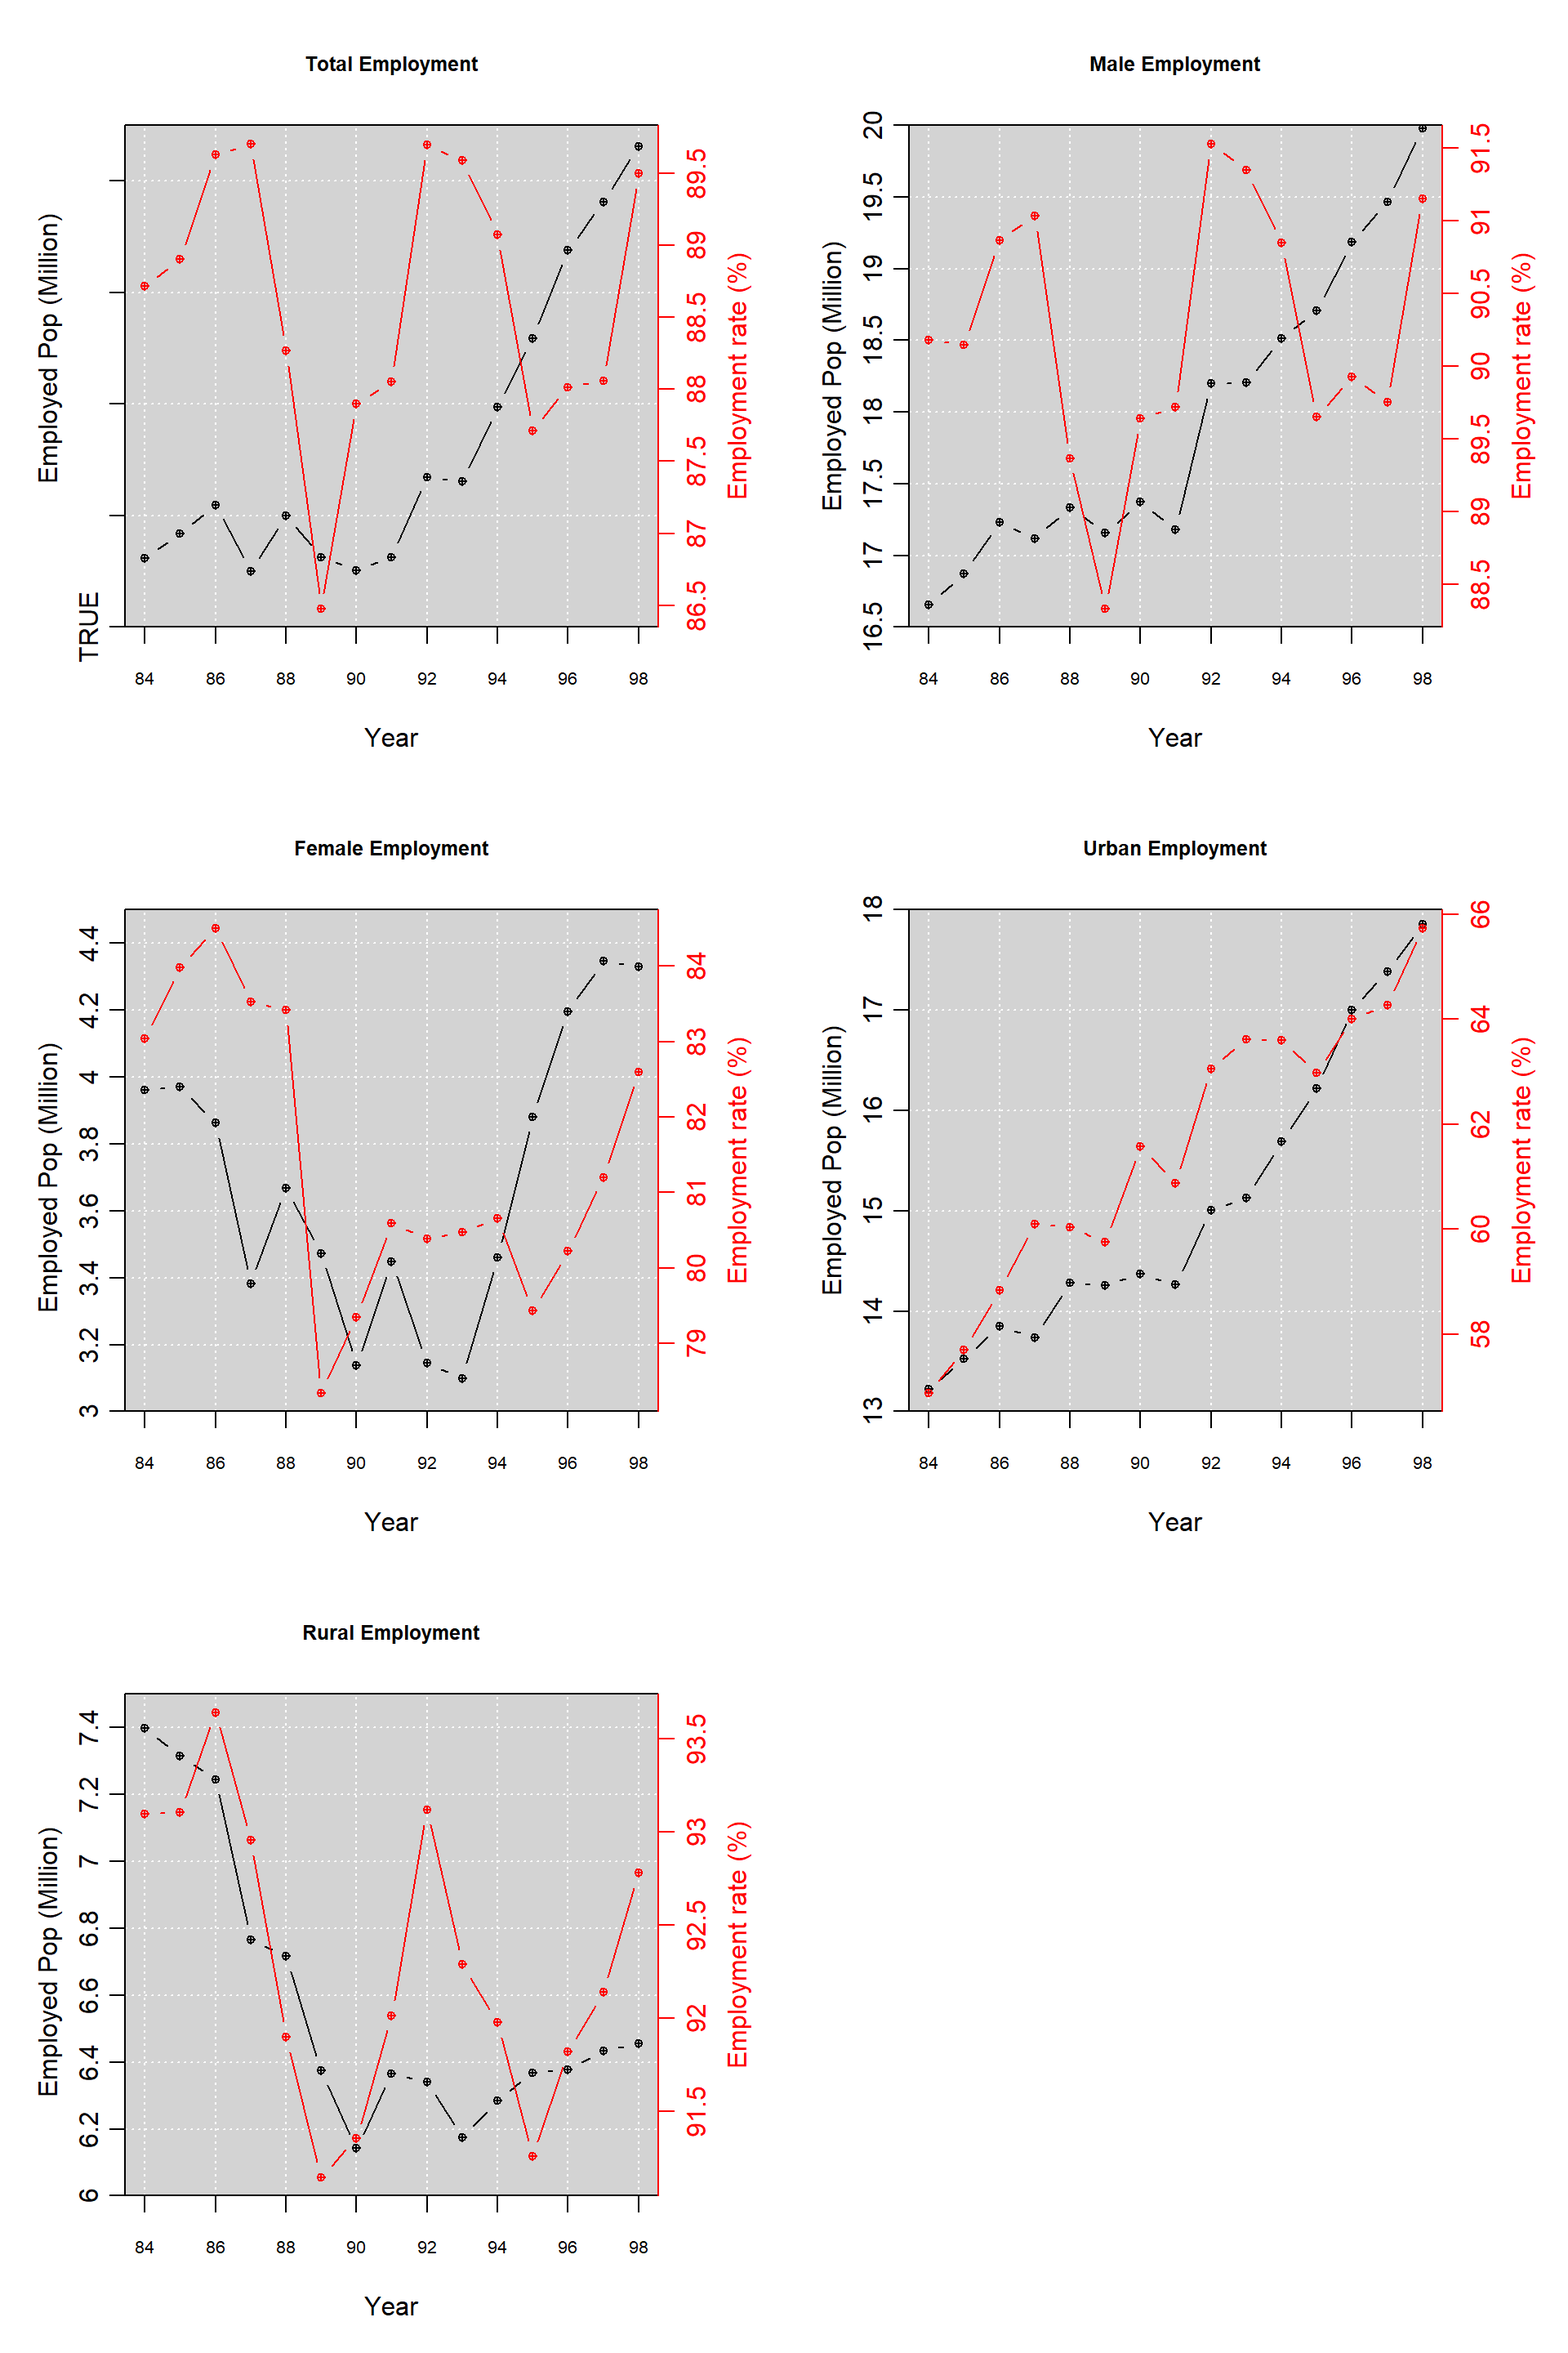
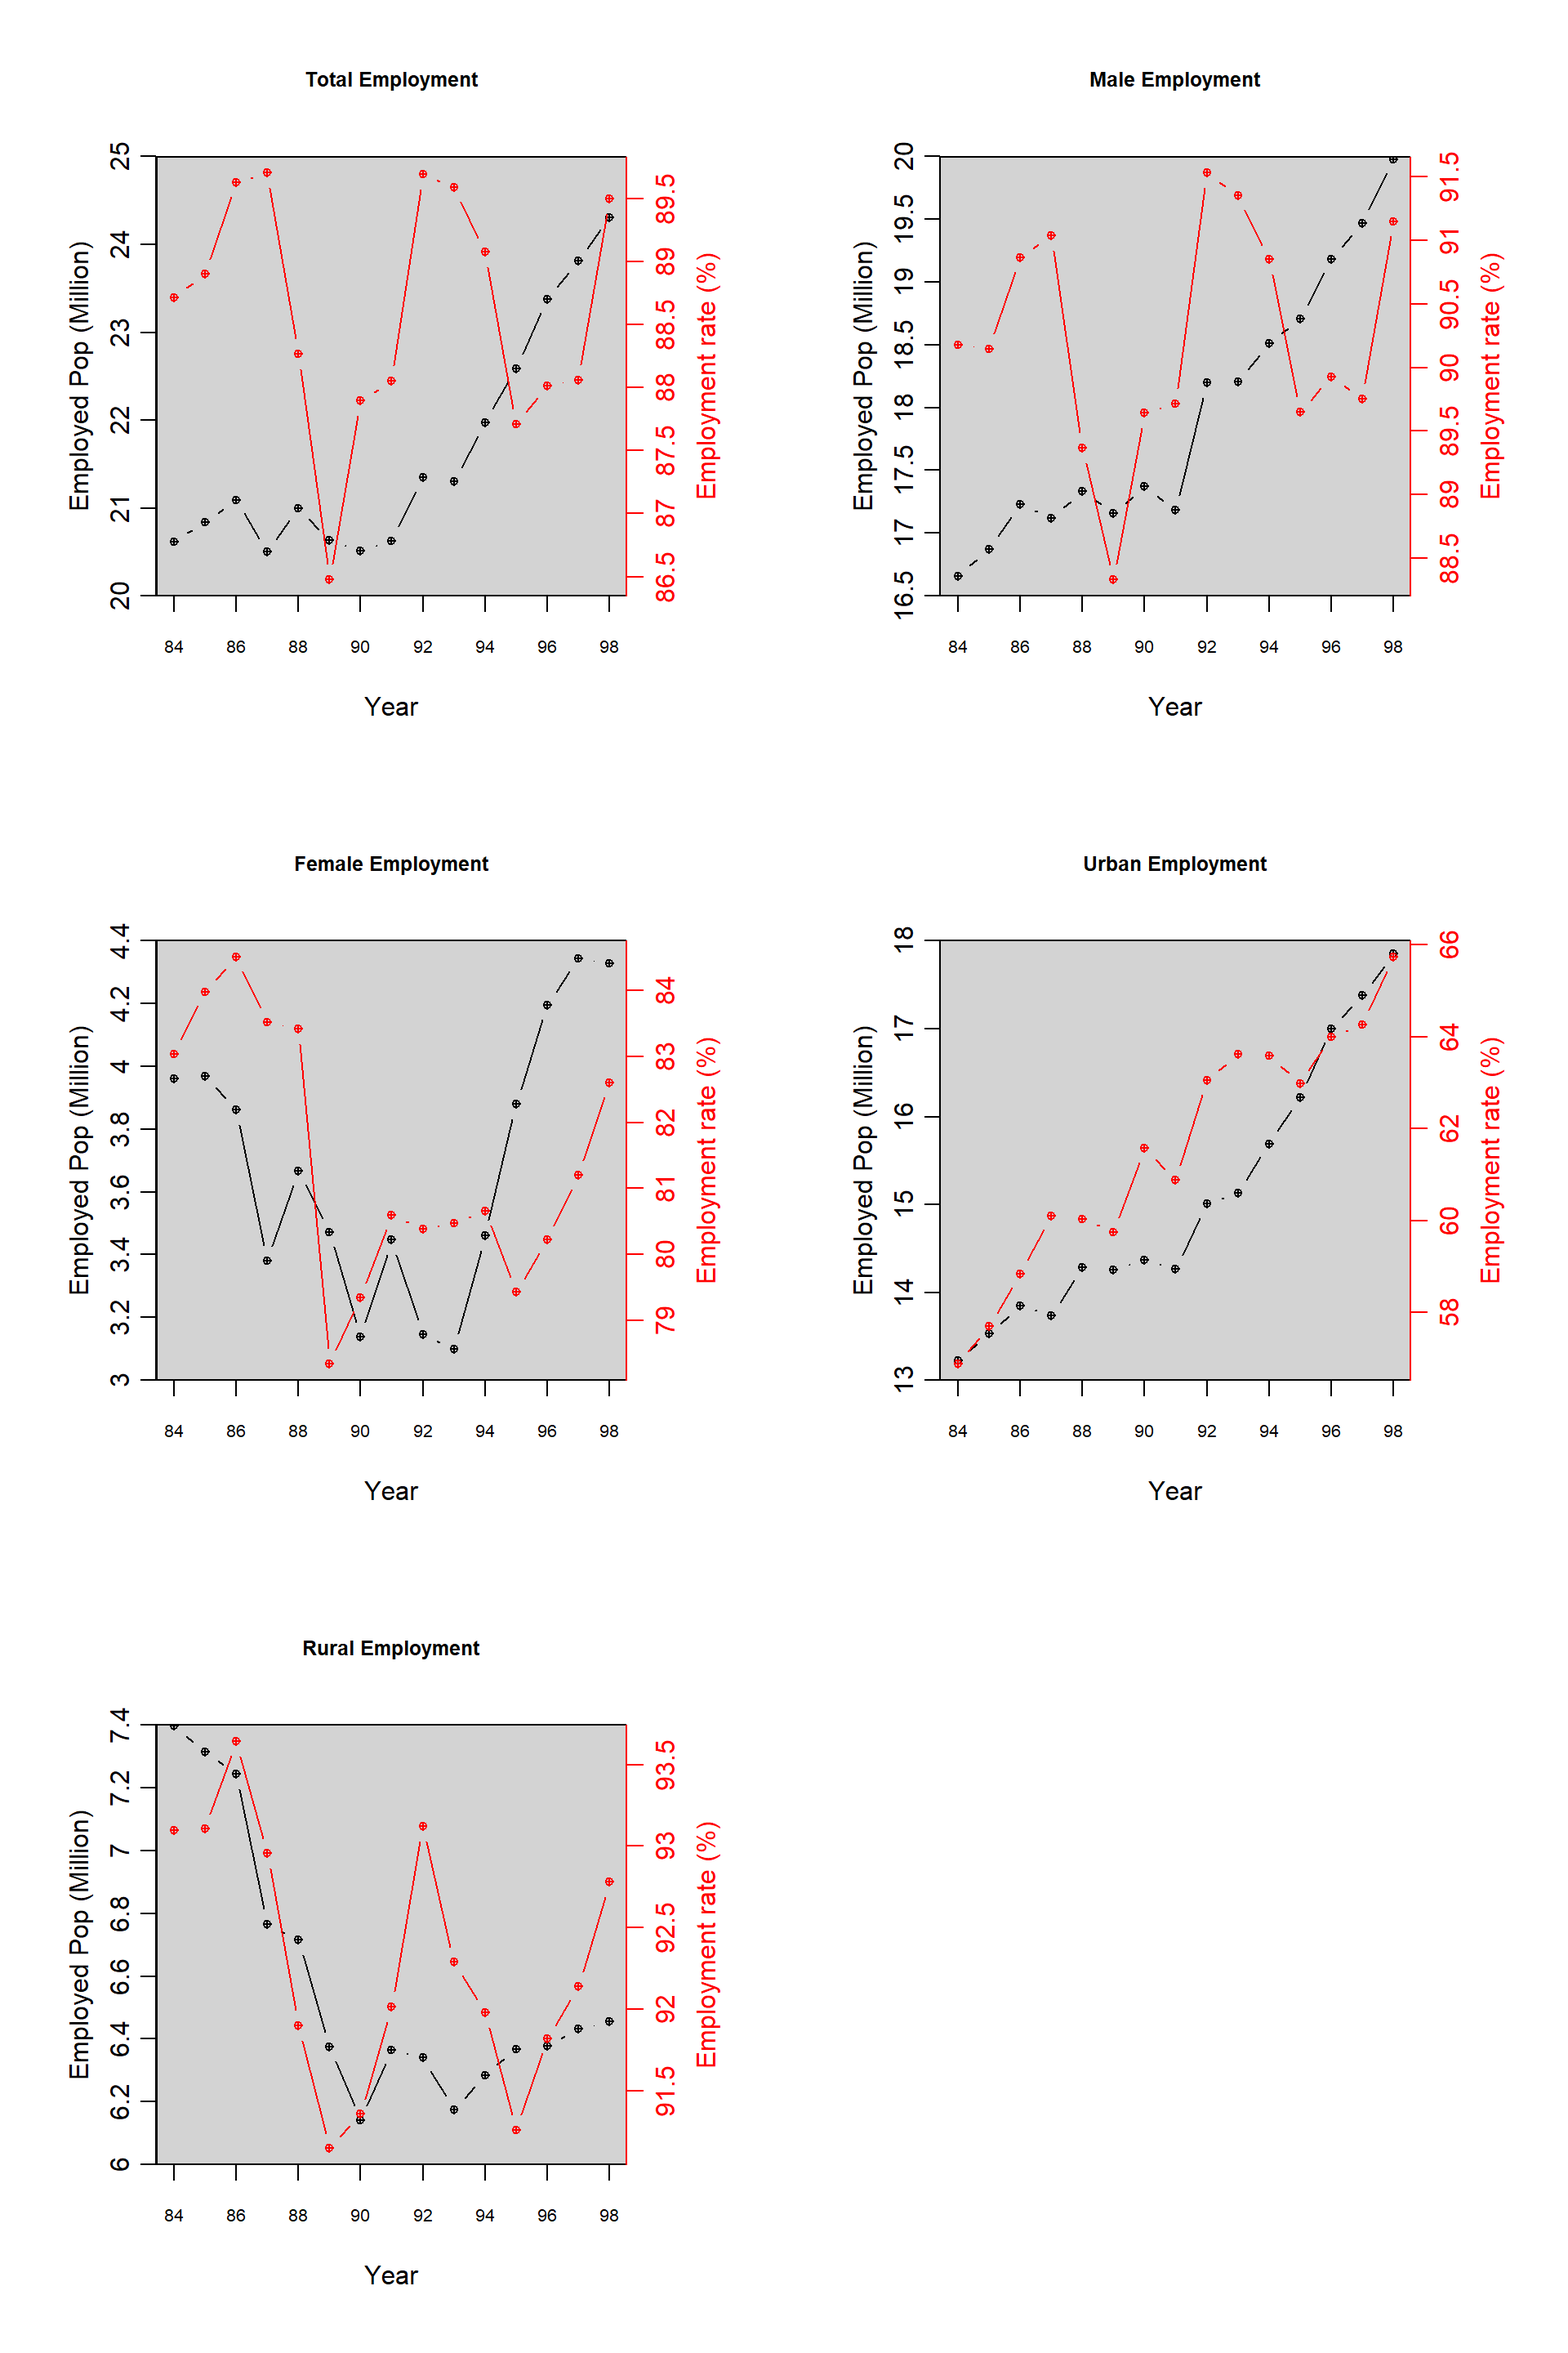
commit result (htmls and figs)

diff --git a/docs/descriptive-evidence.html b/docs/descriptive-evidence.html
@@ -240,10 +240,10 @@ code span.wa { color: #60a0b0; font-weight: bold; font-style: italic; } /* Warni
 <span id="cb1-15"><a href="descriptive-evidence.html#cb1-15" aria-hidden="true" tabindex="-1"></a>  <span class="fu">mutate_at</span>(<span class="fu">vars</span>(EMPR_T<span class="sc">:</span>UMPR_R),<span class="st">`</span><span class="at">*</span><span class="st">`</span>,<span class="dv">100</span>)</span>
 <span id="cb1-16"><a href="descriptive-evidence.html#cb1-16" aria-hidden="true" tabindex="-1"></a></span>
 <span id="cb1-17"><a href="descriptive-evidence.html#cb1-17" aria-hidden="true" tabindex="-1"></a>LFSINP2 <span class="ot">&lt;-</span> <span class="cf">function</span>(df,<span class="at">x =</span> <span class="st">&quot;&quot;</span>,<span class="at">y1 =</span> <span class="st">&quot;&quot;</span>, <span class="at">y2 =</span> <span class="st">&quot;&quot;</span>, <span class="at">Main =</span> <span class="st">&quot;&quot;</span>,<span class="at">y1l =</span> <span class="st">&quot;&quot;</span> ,<span class="at">y2l =</span> <span class="st">&quot;&quot;</span>,<span class="at">y1lim =</span><span class="cn">NULL</span> ){</span>
-<span id="cb1-18"><a href="descriptive-evidence.html#cb1-18" aria-hidden="true" tabindex="-1"></a>  P <span class="ot">&lt;-</span> <span class="fu">twoord.plot</span>(<span class="at">lx =</span> x, <span class="at">ly =</span>y1 , <span class="at">rx =</span> x , <span class="at">ry =</span>y2, <span class="at">data =</span> df,<span class="at">lylim =</span> y1lim,<span class="at">mar =</span> <span class="fu">c</span>(<span class="dv">5</span>,<span class="dv">4</span>,<span class="dv">4</span>,<span class="dv">4</span>),</span>
+<span id="cb1-18"><a href="descriptive-evidence.html#cb1-18" aria-hidden="true" tabindex="-1"></a>  P <span class="ot">&lt;-</span> <span class="fu">twoord.plot</span>(<span class="at">lx =</span> x, <span class="at">ly =</span>y1 , <span class="at">rx =</span> x , <span class="at">ry =</span>y2, <span class="at">data =</span> df,<span class="at">lylim =</span> y1lim,<span class="at">mar =</span> <span class="fu">c</span>(<span class="dv">6</span>,<span class="dv">5</span>,<span class="dv">5</span>,<span class="dv">5</span>),</span>
 <span id="cb1-19"><a href="descriptive-evidence.html#cb1-19" aria-hidden="true" tabindex="-1"></a>                   <span class="at">main =</span> Main , <span class="at">ylab =</span>y1l, <span class="at">rylab =</span> y2l , <span class="at">lpch =</span> <span class="dv">10</span>,<span class="at">rpch =</span> <span class="dv">10</span>,</span>
 <span id="cb1-20"><a href="descriptive-evidence.html#cb1-20" aria-hidden="true" tabindex="-1"></a>                   <span class="at">lcol =</span> <span class="st">&quot;black&quot;</span> ,<span class="at">rcol =</span> <span class="st">&quot;red&quot;</span>,<span class="at">xlab =</span> <span class="st">&quot;Year&quot;</span>,</span>
-<span id="cb1-21"><a href="descriptive-evidence.html#cb1-21" aria-hidden="true" tabindex="-1"></a>                   <span class="at">do.first=</span><span class="st">&quot;plot_bg();grid(col=</span><span class="sc">\&quot;</span><span class="st">white</span><span class="sc">\&quot;</span><span class="st">,lty=15)&quot;</span>)</span>
+<span id="cb1-21"><a href="descriptive-evidence.html#cb1-21" aria-hidden="true" tabindex="-1"></a>                   <span class="at">do.first=</span><span class="st">&quot;plot_bg()&quot;</span>)</span>
 <span id="cb1-22"><a href="descriptive-evidence.html#cb1-22" aria-hidden="true" tabindex="-1"></a>}</span>
 <span id="cb1-23"><a href="descriptive-evidence.html#cb1-23" aria-hidden="true" tabindex="-1"></a></span>
 <span id="cb1-24"><a href="descriptive-evidence.html#cb1-24" aria-hidden="true" tabindex="-1"></a>LFSINP1  <span class="ot">&lt;-</span> <span class="cf">function</span>(Var, <span class="at">xlab =</span> <span class="st">&quot;&quot;</span>, <span class="at">ylab =</span> <span class="st">&quot;&quot;</span>, <span class="at">Main =</span> <span class="st">&quot;&quot;</span>) {</span>
@@ -260,7 +260,6 @@ code span.wa { color: #60a0b0; font-weight: bold; font-style: italic; } /* Warni
 </div>
 <div id="unemployment" class="section level2" number="6.2">
 <h2><span class="header-section-number">6.2</span> Unemployment</h2>
-<pre><code>## [1] 2.353153 3.228798</code></pre>
 <p><img src="bookdown-demo_files/figure-html/unnamed-chunk-4-1.png" width="960" /></p>
 </div>
 <div id="participation" class="section level2" number="6.3">
